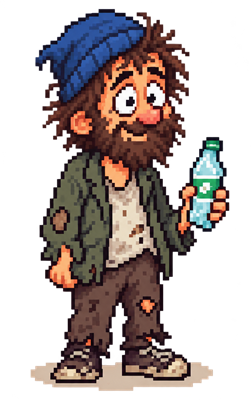
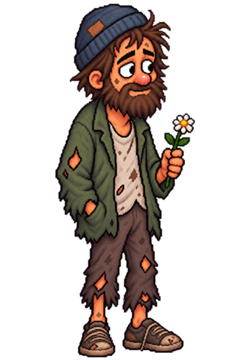
base idea for level 3 implemented

diff --git a/src/app/level-3/level-3.ts b/src/app/level-3/level-3.ts
@@ -1,54 +1,70 @@
-import { Component, input, output, signal } from '@angular/core';
-
-interface ShopOffer {
-  id: string;
-  name: string;
-  cost: number;
-  tooltip: string;
-  action: () => void;
-}
+import { Component, input, output, signal, computed } from '@angular/core';
+import type { ShopOffer } from '../interfaces';
 
 @Component({
   imports: [],
   selector: 'app-level-3',
-  styleUrl: '../shared/level-common.css',
+  styleUrls: ['../shared/level-common.css', './level-3.css'],
   templateUrl: './level-3.html',
 })
 export class Level3 {
   readonly money = input.required<number>();
   readonly purchaseRequested = output<number>();
-  readonly unlockLevel = output<number>();
-  protected readonly bottleCount = signal(0);
-  protected readonly bottleMaxCount = signal(2);
-  protected readonly isBusy = signal(false);          // Indicates whether an action is currently in progress
-  protected readonly activeAction = signal<'collecting' | 'redeeming' | null>(null);
-  protected readonly activeActionDurationMs = signal(0);
-  protected bottleCollectionDurationMs = 2000;
-  protected redemptionDurationMs = 5000;
   readonly earnMoney = output<number>();
+  readonly unlockLevel = output<number>();
+
+
+  protected readonly flowerCount = signal(0);
+  protected readonly flowerMax = signal(3);
+  protected readonly bukettCount = signal(0);
+  protected readonly bukettMax = signal(2);
+
+  protected readonly devMutiplicator: number = 10;
+  protected  bukettPrice: number = this.devMutiplicator * 2;
+  protected readonly expPerTry: number = this.devMutiplicator * 13;
+  protected readonly requiredExpPerLevel: number = 100;
+  protected readonly maxLevel: number = 10;
+  protected readonly currentExp = signal(0);
+  protected readonly currentLevel = signal(1);
+  protected readonly levelUpExp = signal(0);
+  protected readonly probabilityToMakeBukett = computed(() => 0.1 * this.currentLevel());
+
+
+  protected readonly isBusy = signal(false); // Indicates whether an action is currently in progress
+  protected readonly activeAction = signal<'collecting' | 'processing' | 'selling' | null>(null);
+  protected readonly activeActionDurationMs = signal(0);
+  protected flowerCollectionDurationMs = 2000;
+  protected processingDurationMs = 4000;
+  protected bukettSellingDurationMs = 4000;
+
   protected readonly meadowHeight = 360;
   protected readonly meadowMaxWidth = 640;
   protected readonly buttonPosition = signal({ row: 5, column: 5 });
+
   protected readonly shopOffers = signal<ShopOffer[]>([
-    { id: 'greifzange', name: 'Greifzange', cost: 10, tooltip: '50% schnelleres Flaschen sammeln', action: () => {this.bottleCollectionDurationMs /= 2} },
-    { id: 'tasche', name: 'Tasche', cost: 5, tooltip: '+100% Flaschenkapazität', action: () => {this.bottleMaxCount.set(this.bottleMaxCount() * 2)} },
-    { id: 'tretroller', name: 'Tretroller', cost: 30, tooltip: '50% schnelleres Pfand abholen', action: () => {this.redemptionDurationMs /= 2} },
-    { id: 'schuhe', name: 'Schuhe', cost: 20, tooltip: '50% schnelleres Pfand abholen', action: () => {this.redemptionDurationMs /= 2} },
-    { id: 'handschuhe', name: 'Handschuhe', cost: 5, tooltip: '50% schnelleres Flaschen sammeln', action: () => {this.bottleCollectionDurationMs /= 2} },
-    { id: 'rucksack', name: 'Rucksack', cost: 15, tooltip: '+100% Flaschenkapazität', action: () => {this.bottleMaxCount.set(this.bottleMaxCount() * 2)} },
+    {
+      visible: () => true,
+      id: 'quit-drinking',
+      name: 'Idee: Mit dem Trinken aufhören',
+      cost: 0,
+      tooltip: 'Ermöglicht andere Möglichkeiten',
+      action: () => {
+        
+      },
+    },
   ]);
 
-  protected collectBottle(): void {
-    if (this.bottleCount() >= this.bottleMaxCount()) {
+  protected collectFlower(): void {
+    if (this.flowerCount() >= this.flowerMax()) {
       return;
     }
 
     this.runTimedAction(
-      this.bottleCollectionDurationMs,
+      this.flowerCollectionDurationMs,
       'collecting',
       () => {
-        this.bottleCount.update(count =>
-          Math.min(count + 1, this.bottleMaxCount()),
+        this.flowerCount.update(count =>
+          Math.min(count + 1, this.flowerMax()),
         );
 
         const currentPosition = this.buttonPosition();
@@ -69,20 +85,62 @@ export class Level3 {
     );
   }
 
-  protected redeemBottles(): void {
-    const amountEarned = this.bottleCount() * 2;
+  protected arrangeBouquet(): void {
+    if (
+      this.isBusy() ||
+      this.flowerCount() < 3 ||
+      this.bukettCount() >= this.bukettMax()
+    ) {
+      return;
+    }
 
-    this.runTimedAction(this.redemptionDurationMs, 'redeeming', () => {
-      this.bottleCount.set(0);
+    this.runTimedAction(this.processingDurationMs, 'processing', () => {
+      this.flowerCount.update(count => count - 3);
+      this.earnExperience(this.expPerTry);
+      if (Math.random() < this.probabilityToMakeBukett()) {
+        this.bukettCount.update(count =>
+          Math.min(count + 1, this.bukettMax()),
+        );
+      }
+    });
+  }
+
+  protected sellBuketts(): void {
+    const amountEarned = this.bukettCount() * this.bukettPrice;
+
+    this.runTimedAction(this.bukettSellingDurationMs, 'selling', () => {
+      this.bukettCount.set(0);
       this.earnMoney.emit(amountEarned);
     });
+  }
+
+  private earnExperience(amount: number): void {
+    if (this.currentLevel() >= this.maxLevel) {
+      this.currentExp.set(0);
+      return;
+    }
+
+    this.currentExp.update(experience => experience + amount);
+
+    while (
+      this.currentExp() >= this.requiredExpPerLevel &&
+      this.currentLevel() < this.maxLevel
+    ) {
+      this.currentExp.update(
+        experience => experience - this.requiredExpPerLevel,
+      );
+      this.currentLevel.update(level => level + 1);
+    }
+
+    if (this.currentLevel() >= this.maxLevel) {
+      this.currentExp.set(0);
+    }
   }
 
   protected buyOffer(offer: ShopOffer): void {
     if (this.money() < offer.cost) {
       return;
     }
-
     this.shopOffers.update(offers =>
       offers.filter(currentOffer => currentOffer.id !== offer.id),
     );
@@ -92,7 +150,7 @@ export class Level3 {
 
   private runTimedAction(
     durationMs: number,
-    action: 'collecting' | 'redeeming',
+    action: 'collecting' | 'processing' | 'selling',
     onComplete: () => void,
   ): void {
     if (this.isBusy()) {

diff --git a/src/app/level-3/level-3.html b/src/app/level-3/level-3.html
@@ -1,13 +1,47 @@
-<h2>Level 3: Pfandflaschen sammeln</h2>
-<p>Gesammelte Flaschen: {{ bottleCount() }} / {{ bottleMaxCount() }}</p>
-<button
-  class="pixel-button"
-  type="button"
-  [disabled]="isBusy()"
-  (click)="redeemBottles()"
+<h2>Level 3: Blumen pflücken</h2>
+
+<p>Geschicklichkeit: {{ currentLevel() }} / {{ maxLevel }}</p>
+<div
+  class="experience-bar"
+  role="progressbar"
+  aria-label="Erfahrung bis zum nächsten Level"
+  [attr.aria-valuenow]="currentExp()"
+  [attr.aria-valuemin]="0"
+  [attr.aria-valuemax]="requiredExpPerLevel"
 >
-  Pfand abholen
-</button>
+  <div
+    class="experience-bar__fill"
+    [style.width.%]="currentExp() / requiredExpPerLevel * 100"
+  ></div>
+</div>
+<table class="production-table" aria-label="Blumen und Buketts">
+  <tbody>
+    <tr>
+      <th scope="row">Blumen: {{ flowerCount() }} / {{ flowerMax() }}</th>
+      <td>
+        <button
+          class="pixel-button"
+          type="button"
+          [disabled]="isBusy() || flowerCount() < 3 || bukettCount() >= bukettMax()"
+          (click)="arrangeBouquet()">
+          Bukett arrangieren
+        </button>
+      </td>
+    </tr>
+    <tr>
+      <th scope="row">Buketts: {{ bukettCount() }} / {{ bukettMax() }}</th>
+      <td>
+        <button
+          class="pixel-button"
+          type="button"
+          [disabled]="isBusy() || bukettCount() < 1"
+          (click)="sellBuketts()">
+          Buketts verkaufen
+        </button>
+      </td>
+    </tr>
+  </tbody>
+</table>
 
 <div
   class="meadow"
@@ -21,12 +55,12 @@
   />
   <button
     type="button"
-    aria-label="Flasche sammeln"
-    [disabled]="isBusy() || bottleCount() >= bottleMaxCount()"
+    aria-label="Blume pflücken"
+    [disabled]="isBusy() || flowerCount() >= flowerMax()"
     [style.grid-row]="buttonPosition().row"
     [style.grid-column]="buttonPosition().column"
-    (click)="collectBottle()">
-    <img src="/images/bottle.png" alt="" />
+    (click)="collectFlower()">
+    <img src="/images/flower.png" alt="" />
   </button>
 </div>
 
@@ -47,10 +81,12 @@
 
 @if (isBusy()) {
   <p role="status">
-    @if (activeAction() === 'redeeming') {
-      Pfand wird abgeholt …
-    } @else {
-      Flasche wird eingesammelt …
+    @if (activeAction() === 'collecting') {
+      Blume wird gesammelt …
+    } @else if (activeAction() === 'processing') {
+      Bukett wird hergestellt …
+    } @else if (activeAction() === 'selling') {
+      Bukett wird verkauft …
     }
   </p>
   <div class="action-progress" aria-hidden="true">

diff --git a/src/app/app.ts b/src/app/app.ts
@@ -16,11 +16,11 @@ import { GAME_LEVELS, type GameLevel } from './interfaces';
 export class App {
   protected readonly title = signal('angular-app');
   protected readonly money = signal(0);
-  protected readonly numberOfUnlockedLevels = signal(2);
+  protected readonly numberOfUnlockedLevels = signal(3);
   protected readonly unlockedLevels = computed(() =>
     GAME_LEVELS.slice(0, this.numberOfUnlockedLevels()),
   );
-  protected readonly currentLevel = signal<GameLevel>('level-2');
+  protected readonly currentLevel = signal<GameLevel>('level-3');
   private readonly cashRegisterSound = new Audio('/sounds/cash-register.mp3');
 
   protected addMoney(amount: number): void {

diff --git a/src/app/level-3/level-3.css b/src/app/level-3/level-3.css
@@ -1,0 +1,32 @@
+.experience-bar {
+  background-color: #d9d9d9;
+  border: 2px solid #774f17;
+  height: 18px;
+  margin-block: 8px 12px;
+  max-width: 640px;
+  overflow: hidden;
+  width: 100%;
+}
+
+.experience-bar__fill {
+  background-color: #e1b85a;
+  height: 100%;
+  transition: width 200ms ease;
+}
+
+.production-table {
+  border-collapse: collapse;
+  margin-block: 12px;
+  max-width: 640px;
+  table-layout: fixed;
+  width: 100%;
+}
+
+.production-table th,
+.production-table td {
+  border: 2px solid #774f17;
+  padding: 8px;
+  text-align: left;
+  vertical-align: middle;
+  width: 50%;
+}

diff --git a/src/app/game-status/game-status.html b/src/app/game-status/game-status.html
@@ -19,11 +19,15 @@
         <td>
           <select
             aria-label="Level"
-            [value]="level()"
             (change)="changeLevel($event)"
           >
             @for (option of levelOptions(); track option.value) {
-              <option [value]="option.value">{{ option.label }}</option>
+              <option
+                [value]="option.value"
+                [selected]="option.value === level()"
+              >
+                {{ option.label }}
+              </option>
             }
           </select>
         </td>

diff --git a/src/app/level-2/level-2.ts b/src/app/level-2/level-2.ts
@@ -38,7 +38,7 @@ export class Level2 {
   readonly earnMoney = output<number>();
   readonly unlockLevel = output<number>();
 
-  protected readonly devSellPriceMultiplier: number = 10;
+  protected readonly devSellPriceMultiplier: number = 1;
   protected readonly glassBottleCount = signal(0);
   protected readonly glassBottleMax = signal(2);
   protected readonly glassBottleDeposit: number = this.devSellPriceMultiplier * 0.1;

diff --git a/src/app/level-2/level-2.css b/src/app/level-2/level-2.css
@@ -1,6 +1,6 @@
 .deposit-inventory {
   border-collapse: collapse;
-  margin-bottom: 12px;
+  margin-block: 12px;
   max-width: 640px;
   width: 100%;
 }
